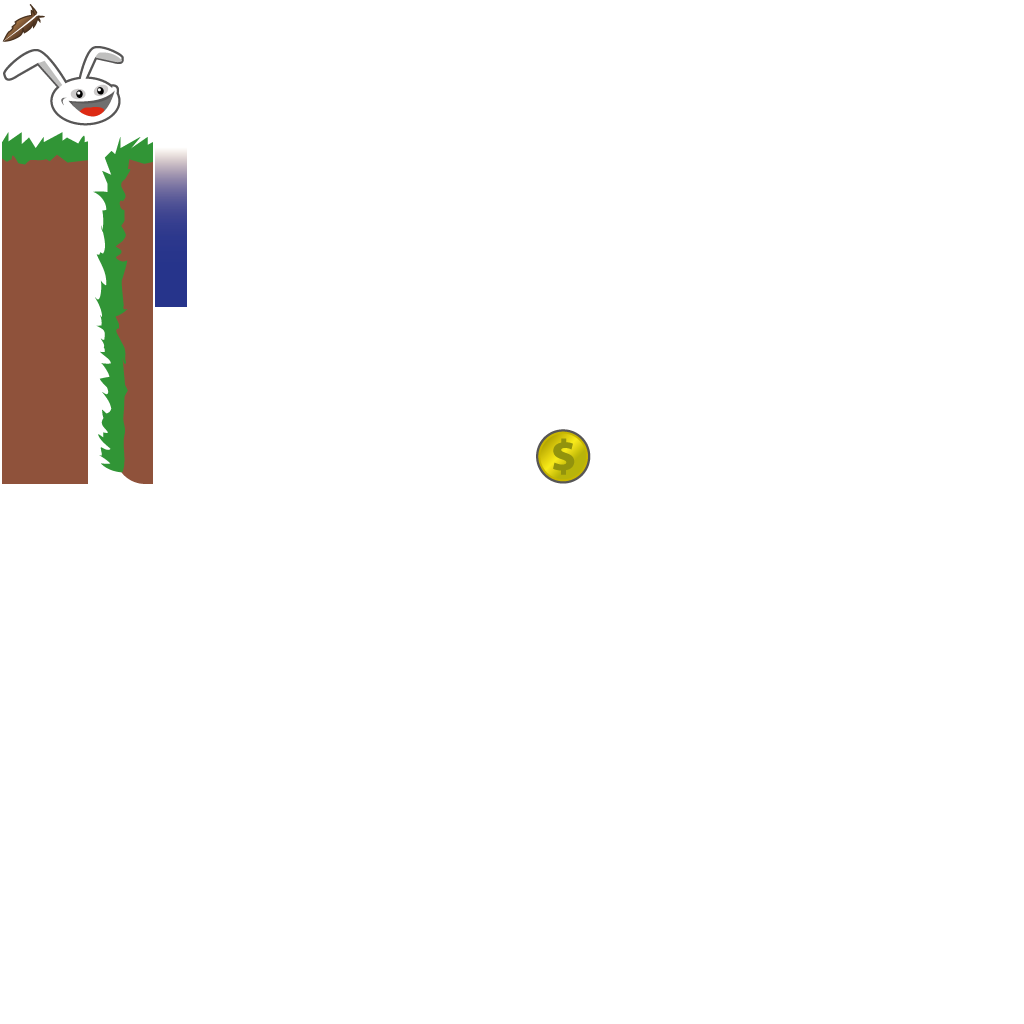
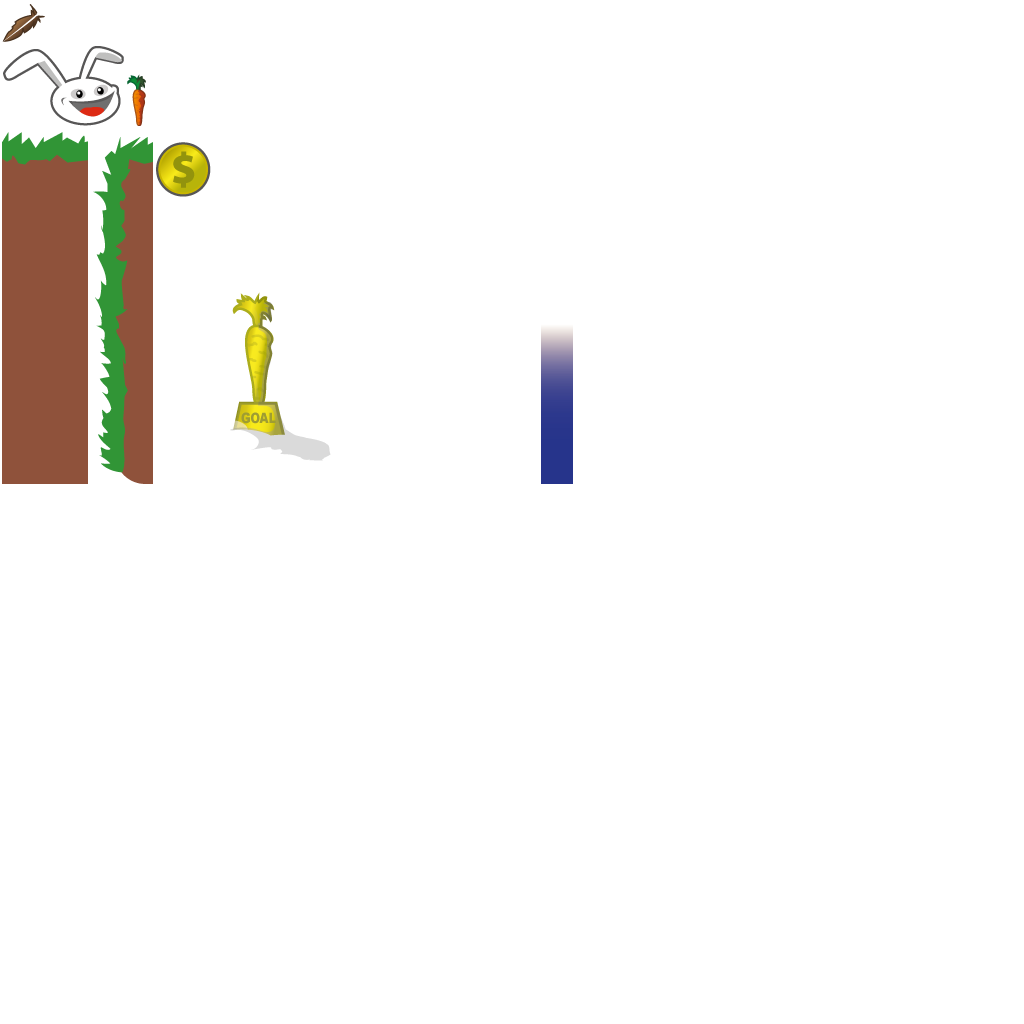
p339 completed

diff --git a/core/src/com/csc361/g1/game/Assets.java b/core/src/com/csc361/g1/game/Assets.java
@@ -190,6 +190,8 @@ public class Assets implements Disposable, AssetErrorListener {
 		public final AtlasRegion mountainLeft;
 		public final AtlasRegion mountainRight;
 		public final AtlasRegion waterOverlay;
+		public final AtlasRegion carrot;
+		public final AtlasRegion goal;
 
 		public AssetLevelDecoration(TextureAtlas atlas) {
 			cloud01 = atlas.findRegion("cloud01");
@@ -198,6 +200,8 @@ public class Assets implements Disposable, AssetErrorListener {
 			mountainLeft = atlas.findRegion("mountain_left");
 			mountainRight = atlas.findRegion("mountain_right");
 			waterOverlay = atlas.findRegion("water_overlay");
+			carrot = atlas.findRegion("carrot");
+			goal = atlas.findRegion("goal");
 		}
 	}
 

diff --git a/desktop/src/com/csc361/g1/desktop/DesktopLauncher.java b/desktop/src/com/csc361/g1/desktop/DesktopLauncher.java
@@ -21,7 +21,7 @@ public class DesktopLauncher {
 			TexturePacker.process(settings, "assets-raw/images", "../core/assets/images", "canyonbunny.atlas");
 			TexturePacker.process(settings, "assets-raw/images-ui",
 					"../core/assets/images",
-					"canyonbunny-ui.pack");
+					"canyonbunny-ui.atlas");
 		}
 		LwjglApplicationConfiguration cfg = new LwjglApplicationConfiguration();
 		cfg.title = "CanyonBunny";
